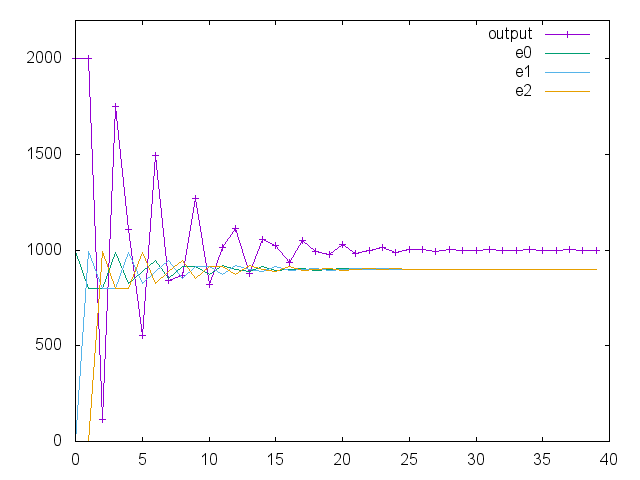
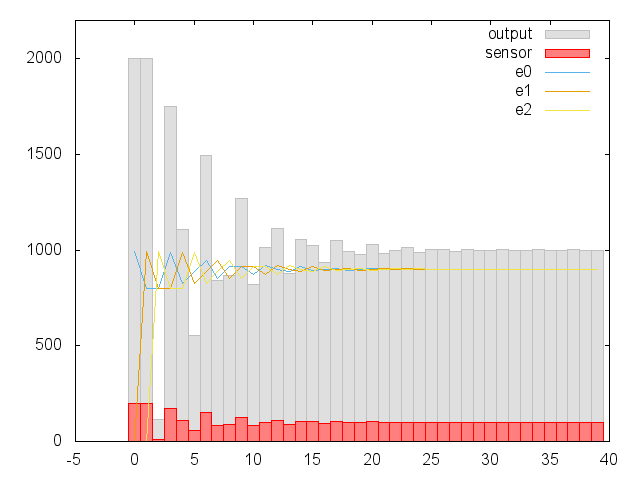
Make histogram style plot and add MIT-LICENSE

diff --git a/main.c b/main.c
@@ -56,7 +56,7 @@ int main (){
 
   for(int i = 0; i < 40; i++){
     pid.computeStep();
-    plot << i << '\t' << pid.output << '\t' << pid.e0 << '\t' << pid.e1 << '\t' << pid.e2  << '\n';
+    plot << i << '\t' << pid.output << '\t' << (pid.output*0.1) << '\t' << pid.e0 << '\t' << pid.e1 << '\t' << pid.e2  << '\n';
   }
 
   plot.close();
